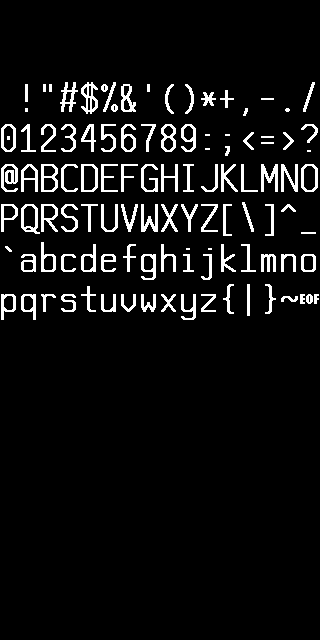
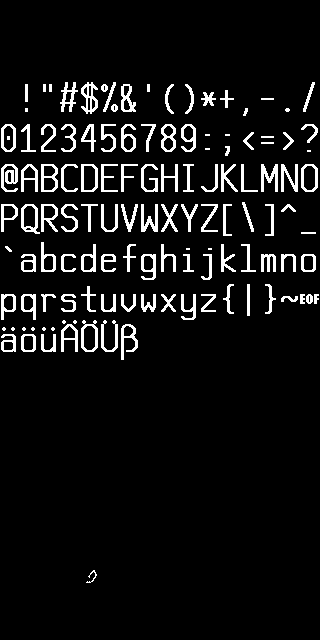
enable sparse saving of unicode chars (char_idx >= 128 is mapped)

Changed region(s): [[0.0, 0.5, 0.4375, 0.5625], [0.2812, 0.875, 0.3125, 0.9062]]

diff --git a/font_editor/src/font_editor.rs b/font_editor/src/font_editor.rs
@@ -18,7 +18,7 @@ pub struct Editor {
     font_table_offset: Vector2i,
     sample_text_offset: Vector2i,
     window: RenderWindow,
-    display_char: i32,
+    display_idx: i32,
     font: Font,
 }
 
@@ -52,7 +52,7 @@ impl Editor {
             Font::new(font_name, font_size)
         };
 
-        let display_char = 'a' as i32;
+        let display_idx = 'a' as i32;
         let mut editor = Self {
             font_size,
             edit_char_scale,
@@ -62,7 +62,7 @@ impl Editor {
             font_table_offset,
             sample_text_offset,
             window,
-            display_char,
+            display_idx,
             font,
         };
 
@@ -96,18 +96,16 @@ impl Editor {
     fn key_pressed(&mut self, code: Key) {
         match code {
             Key::Escape => self.window.close(),
-            Key::N => self.display_char = (self.display_char + 1) % font::NUM_CHARS,
-            Key::P => {
-                self.display_char = (self.display_char + font::NUM_CHARS - 1) % font::NUM_CHARS
-            }
+            Key::N => self.display_idx = (self.display_idx + 1) % font::NUM_CHARS,
+            Key::P => self.display_idx = (self.display_idx + font::NUM_CHARS - 1) % font::NUM_CHARS,
             Key::C => self.copy_char(),
-            Key::H => self.font.flip_char_horizontal(self.display_char),
-            Key::V => self.font.flip_char_vertical(self.display_char),
+            Key::H => self.font.flip_char_horizontal(self.display_idx),
+            Key::V => self.font.flip_char_vertical(self.display_idx),
             Key::B => self.font.make_all_bold(),
-            Key::Left => self.font.shift_char(self.display_char, -1, 0),
-            Key::Right => self.font.shift_char(self.display_char, 1, 0),
-            Key::Up => self.font.shift_char(self.display_char, 0, -1),
-            Key::Down => self.font.shift_char(self.display_char, 0, 1),
+            Key::Left => self.font.shift_char(self.display_idx, -1, 0),
+            Key::Right => self.font.shift_char(self.display_idx, 1, 0),
+            Key::Up => self.font.shift_char(self.display_idx, 0, -1),
+            Key::Down => self.font.shift_char(self.display_idx, 0, 1),
             _ => {}
         }
     }
@@ -141,7 +139,7 @@ impl Editor {
     fn copy_char(&mut self) {
         let mouse_pos = self.window.mouse_position();
         if let Some(ch) = self.pick_char(mouse_pos.x, mouse_pos.y) {
-            self.font.copy_char(ch, self.display_char);
+            self.font.copy_char(ch, self.display_idx);
         }
     }
 
@@ -150,20 +148,20 @@ impl Editor {
         let pixel_y = (y - self.edit_char_offset.y) / self.edit_char_scale;
         if pixel_x < self.font_size.x && pixel_y < self.font_size.y {
             self.font
-                .set_pixel(self.display_char, pixel_x, pixel_y, color);
+                .set_pixel(self.display_idx, pixel_x, pixel_y, color);
         }
     }
 
     fn pick_edit_char(&mut self, x: i32, y: i32) {
         if let Some(char) = self.pick_char(x, y) {
-            self.display_char = char;
+            self.display_idx = char;
         }
     }
 
     fn pick_char(&self, x: i32, y: i32) -> Option<i32> {
         let font_grid_pos = Vector2i::new(
             (x - self.font_table_offset.x) / self.font_size.x / self.font_scale - 1,
-            (y - self.font_table_offset.y) / self.font_size.y / self.font_scale - 1,
+            (y - self.font_table_offset.y) / self.font_size.y / self.font_scale - 2,
         );
         if font_grid_pos.x >= 0
             && font_grid_pos.x < font::NUM_COLS
@@ -176,13 +174,13 @@ impl Editor {
         }
     }
 
-    fn font_char_pos(&self, ch: i32) -> Option<Vector2i> {
-        if ch < font::NUM_CHARS_IGNORED {
+    fn font_char_pos(&self, idx: i32) -> Option<Vector2i> {
+        if idx < font::NUM_CHARS_IGNORED {
             None
         } else {
-            let ch = ch - font::NUM_CHARS_IGNORED;
-            let char_x = ch % font::NUM_COLS + 1;
-            let char_y = ch / font::NUM_COLS + 1;
+            let idx = idx - font::NUM_CHARS_IGNORED;
+            let char_x = idx % font::NUM_COLS + 1;
+            let char_y = idx / font::NUM_COLS + 2;
             let x = char_x * self.font_size.x * self.font_scale + self.font_table_offset.x;
             let y = char_y * self.font_size.y * self.font_scale + self.font_table_offset.y;
             Some(Vector2i::new(x, y))
@@ -200,7 +198,9 @@ impl Editor {
             |x: i32, y: i32, color: Color| Vertex::with_pos_color(grid_pos(x, y), color);
 
         // display char
-        let mut sprite = self.font.get_sprite(self.display_char);
+        let mut sprite = self
+            .font
+            .get_sprite(self.font.idx2char[self.display_idx as usize]);
         sprite.set_position(grid_pos(0, 0));
         sprite.set_scale(Vector2f::new(
             self.edit_char_scale as f32,
@@ -291,10 +291,27 @@ fn main() {
     }
 
     fn draw_full_font_table(&mut self) {
-        let axis = "0123456789ABCDEF";
         let font_width = self.font_size.x * self.font_scale;
         let font_height = self.font_size.y * self.font_scale;
 
+        // draw char info
+        let char_idx = self.display_idx;
+        let char_ch = self.font.idx2char[char_idx as usize];
+        let char_repr = std::char::from_u32(char_ch as u32).unwrap_or('?');
+        let char_info = format!(
+            "idx:{:x} unicode:{:x} char:{}",
+            char_idx, char_ch, char_repr
+        );
+        self.font.draw_text(
+            &char_info,
+            self.font_table_offset,
+            self.font_scale,
+            Color::WHITE,
+            &mut self.window,
+        );
+
+        // draw axis
+        let axis = "0123456789ABCDEF";
         let light_blue = Color::rgb(0xc0, 0xc0, 0xff);
         for i in 0..16 {
             // x-axis
@@ -302,7 +319,7 @@ fn main() {
                 &axis[i..i + 1],
                 Vector2i::new(
                     self.font_table_offset.x + (i + 1) as i32 * font_width,
-                    self.font_table_offset.y,
+                    self.font_table_offset.y + font_height,
                 ),
                 self.font_scale,
                 light_blue,
@@ -315,17 +332,19 @@ fn main() {
                 &axis[i..i + 1],
                 Vector2i::new(
                     self.font_table_offset.x,
-                    self.font_table_offset.y + (i - 1) as i32 * font_height,
+                    self.font_table_offset.y + i as i32 * font_height,
                 ),
                 self.font_scale,
                 light_blue,
                 &mut self.window,
             );
         }
+
+        // draw actual table
         let mut sprite = self.font.get_sprite_full();
         sprite.set_position(Vector2f::new(
             (self.font_table_offset.x + font_width) as f32,
-            (self.font_table_offset.y + font_height) as f32,
+            (self.font_table_offset.y + 2 * font_height) as f32,
         ));
         sprite.set_scale(Vector2f::new(
             self.font_scale as f32,
@@ -335,7 +354,7 @@ fn main() {
     }
 
     fn draw_active_char_border(&mut self) {
-        self.draw_char_border(self.display_char, Color::rgb(0xC0, 0xC0, 0xC0));
+        self.draw_char_border(self.display_idx, Color::rgb(0xC0, 0xC0, 0xC0));
     }
 
     fn draw_hover_char_border(&mut self) {

diff --git a/font/src/lib.rs b/font/src/lib.rs
@@ -15,6 +15,9 @@ pub struct Font {
     pub char_size: Vector2i,
     pub image: Image,
     pub texture: SfBox<Texture>,
+    pub char2idx: Vec<i32>,
+    pub idx2char: Vec<i32>,
+    pub max_char: i32,
 }
 
 impl Font {
@@ -28,11 +31,29 @@ impl Font {
             .load_from_image(&image, IntRect::default())
             .expect("Failed to load texture");
 
+        let mut char2idx = vec![];
+        let mut idx2char = vec![];
+        for ch in 0..128 {
+            char2idx.push(ch);
+            idx2char.push(ch);
+        }
+        let extended = "äöüÄÖÜß";
+        let max_char = extended.chars().map(|ch| ch as i32).max().unwrap();
+        char2idx.resize(max_char as usize + 1, 0);
+        for (i, ch) in extended.chars().enumerate() {
+            let idx = i as i32 + 128;
+            char2idx[ch as usize] = idx;
+            idx2char.push(ch as i32);
+        }
+
         Self {
             name: name.to_string(),
             char_size,
             image,
             texture,
+            char2idx,
+            idx2char,
+            max_char,
         }
     }
 
@@ -41,27 +62,27 @@ impl Font {
     }
 
     pub fn load(name: &str, char_size: Vector2i) -> std::io::Result<Font> {
+        let mut font = Self::new(name, char_size);
         let filename = Self::filename(name, char_size);
-        let image = Image::from_file(&filename).ok_or(std::io::Error::new(
+        font.image = Image::from_file(&filename).ok_or(std::io::Error::new(
             std::io::ErrorKind::NotFound,
             format!("File not found: {}", filename),
         ))?;
-        let mut texture = Texture::new().expect("Failed to create texture");
-        texture
-            .load_from_image(&image, IntRect::default())
+        font.texture = Texture::new().expect("Failed to create texture");
+        font.texture
+            .load_from_image(&font.image, IntRect::default())
             .expect("Failed to load texture");
-        Ok(Self {
-            name: name.to_string(),
-            char_size,
-            image,
-            texture,
-        })
+        Ok(font)
     }
 
     pub fn get_sprite(&self, ch: i32) -> Sprite {
-        if !(0..NUM_CHARS).contains(&ch) {
-            panic!("Invalid character: {}", ch);
-        }
+        //let ch = if !(0..NUM_CHARS).contains(&ch) {
+        let ch = if ch > self.max_char || self.char2idx[ch as usize] == 0 {
+            println!("Invalid character: 0x{:x}='{}'", ch, ch as u8 as char);
+            '?' as i32
+        } else {
+            self.char2idx[ch as usize]
+        };
 
         let x = (ch % NUM_COLS) * self.char_size.x;
         let y = (ch / NUM_COLS) * self.char_size.y;

diff --git a/todo.md b/todo.md
@@ -24,3 +24,7 @@ To do
 - don't scan the directory if no * or ? contained
 - make C-W work in command mode and switch to insert mode
   - quick path to editing the command line
+
+font editor
+-----------
+check correct usage of `char_idx/display_idx` in `font::copy_char, set_pixel` etc.
